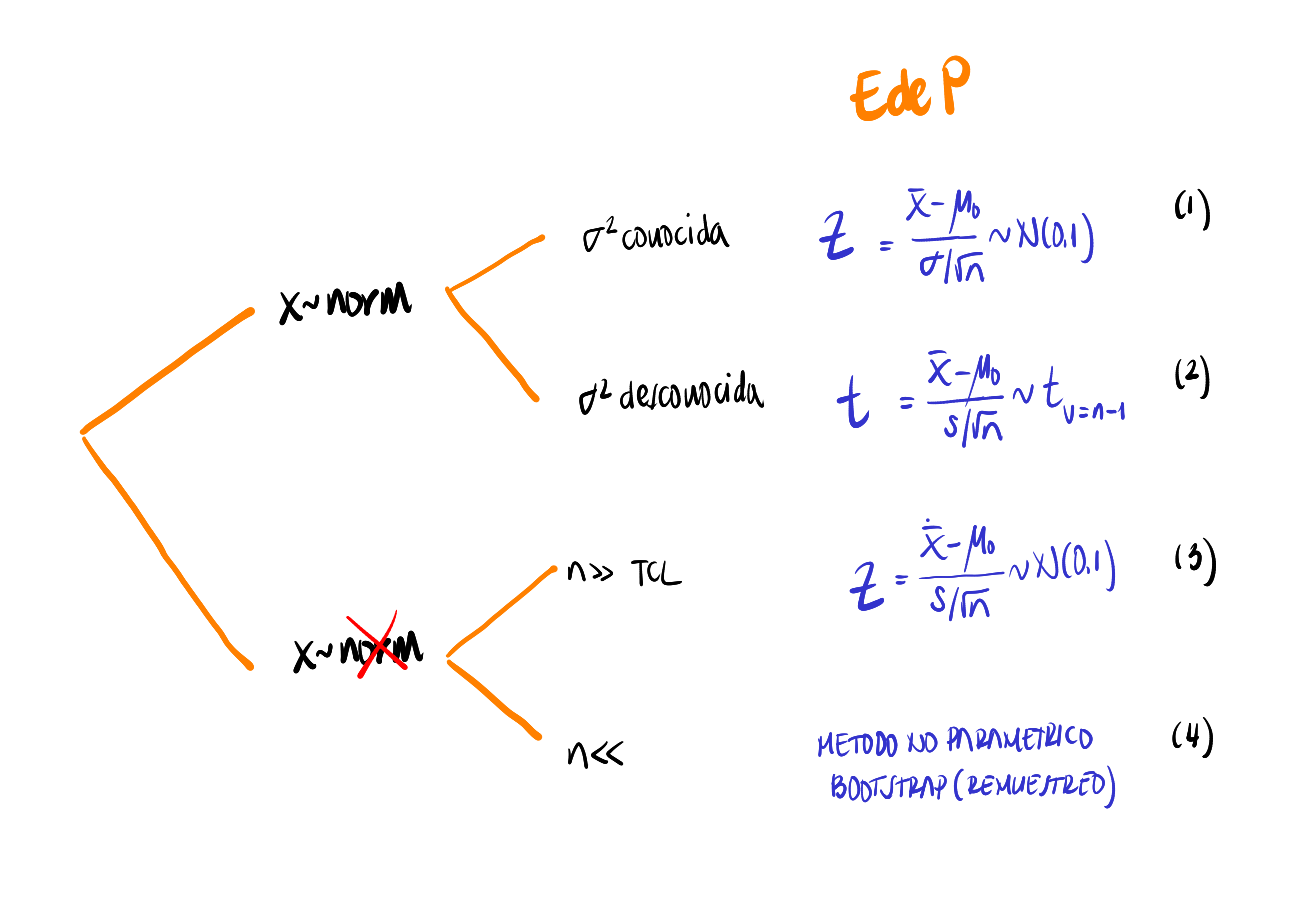
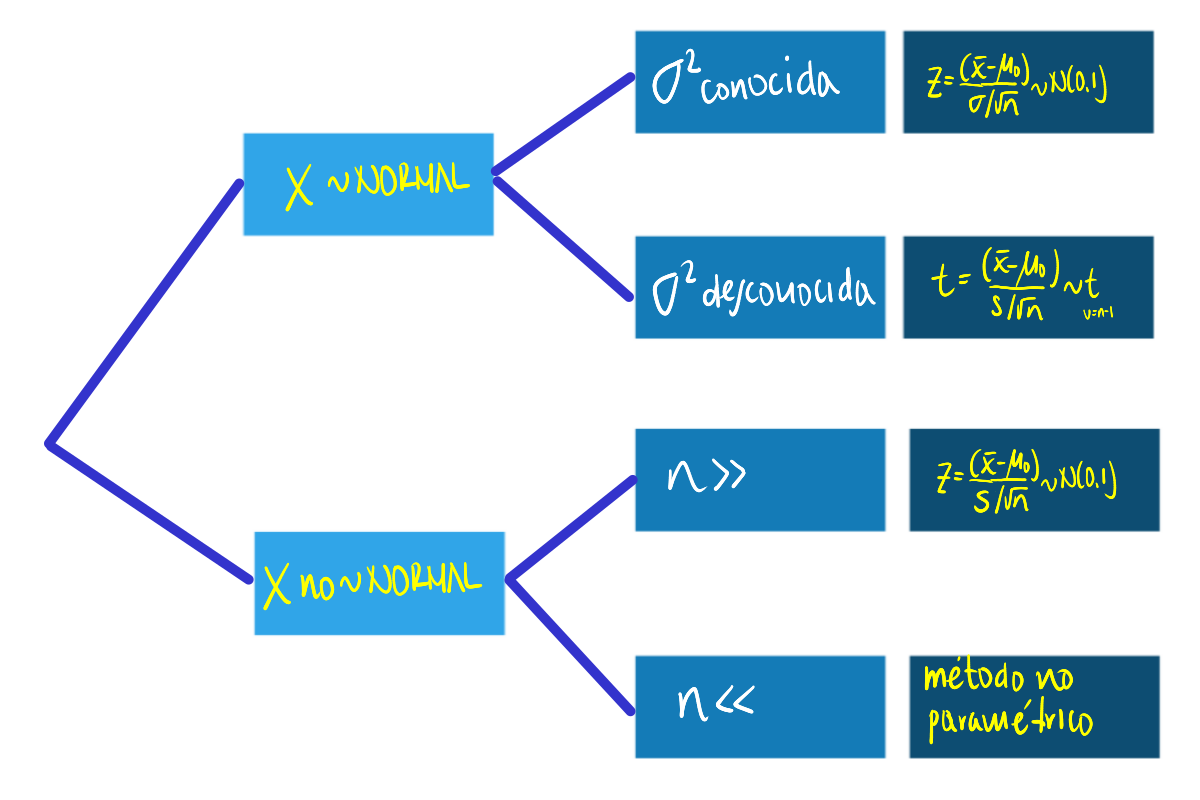
add diagramas guia 4.3

diff --git a/Guia403.html b/Guia403.html
@@ -1928,8 +1928,8 @@ runs.test(y)</code></pre>
     Runs Test
 
 data:  y
-statistic = 0.20102, runs = 52, n1 = 50, n2 = 50, n = 100, p-value =
-0.8407
+statistic = 2.0102, runs = 61, n1 = 50, n2 = 50, n = 100, p-value =
+0.04441
 alternative hypothesis: nonrandomness</code></pre>
 <p><strong>Conclusión</strong></p>
 <p>Como el valor-p (0.3149) es mayor al nivel de significancia, no se rechaza la hipótesis nula, no existe suficiente evidencia en la muestra que permita rechazarla, asumimos que los datos son aleatorios.</p>
@@ -1949,7 +1949,7 @@ plot(density(x), main=&quot; &quot;, las=1)</code></pre>
     Shapiro-Wilk normality test
 
 data:  x
-W = 0.98652, p-value = 0.05398</code></pre>
+W = 0.99264, p-value = 0.4144</code></pre>
 <p>Esta prueba no requiere la instalación de paquetes adicionales, pues está disponible en la configuración básica de R</p>
 <p>Como el valor-p es superior al nivel de significancia <span class="math inline">\(\alpha\)</span>, no se rechaza <span class="math inline">\(Ho\)</span>, se asume que la distribución de la variable es normal.</p>
 <p>Otras pruebas de normalidad utilizadas con frecuencia son:</p>
@@ -1961,19 +1961,19 @@ jb.norm.test(x)  # Test de normalidad de Jarque-Bera</code></pre>
     Jarque-Bera test for normality
 
 data:  x
-JB = 7.8971, p-value = 0.018</code></pre>
+JB = 0.88542, p-value = 0.601</code></pre>
 <pre class="r"><code>kurtosis.norm.test(x)</code></pre>
 <pre><code>
     Kurtosis test for normality
 
 data:  x
-T = 3.4977, p-value = 0.1265</code></pre>
+T = 2.9578, p-value = 0.896</code></pre>
 <pre class="r"><code>skewness.norm.test(x)   </code></pre>
 <pre><code>
     Skewness test for normality
 
 data:  x
-T = 0.41832, p-value = 0.012</code></pre>
+T = -0.16161, p-value = 0.3435</code></pre>
 <pre class="r"><code># install.packages(&quot;nortets&quot;)
 library(nortest)
 
@@ -1982,13 +1982,13 @@ lillie.test(x) # Kolmogorov-Smirnov</code></pre>
     Lilliefors (Kolmogorov-Smirnov) normality test
 
 data:  x
-D = 0.058959, p-value = 0.08762</code></pre>
+D = 0.041271, p-value = 0.5564</code></pre>
 <pre class="r"><code>pearson.test(x) # chi-cuadrado de Pearson</code></pre>
 <pre><code>
     Pearson chi-square normality test
 
 data:  x
-P = 16.58, p-value = 0.2793</code></pre>
+P = 13.69, p-value = 0.4731</code></pre>
 <p><br/><br/></p>
 <p><br/><br/><br/><br/></p>
 </div>
@@ -2140,6 +2140,7 @@ P = 16.58, p-value = 0.2793</code></pre>
 </tbody>
 </table>
 <p><br/><br/></p>
+<p><img src="img/pruebas.png" /> <br/><br/></p>
 </div>
 <div id="código-r" class="section level1">
 <h1><strong>Código R</strong></h1>
